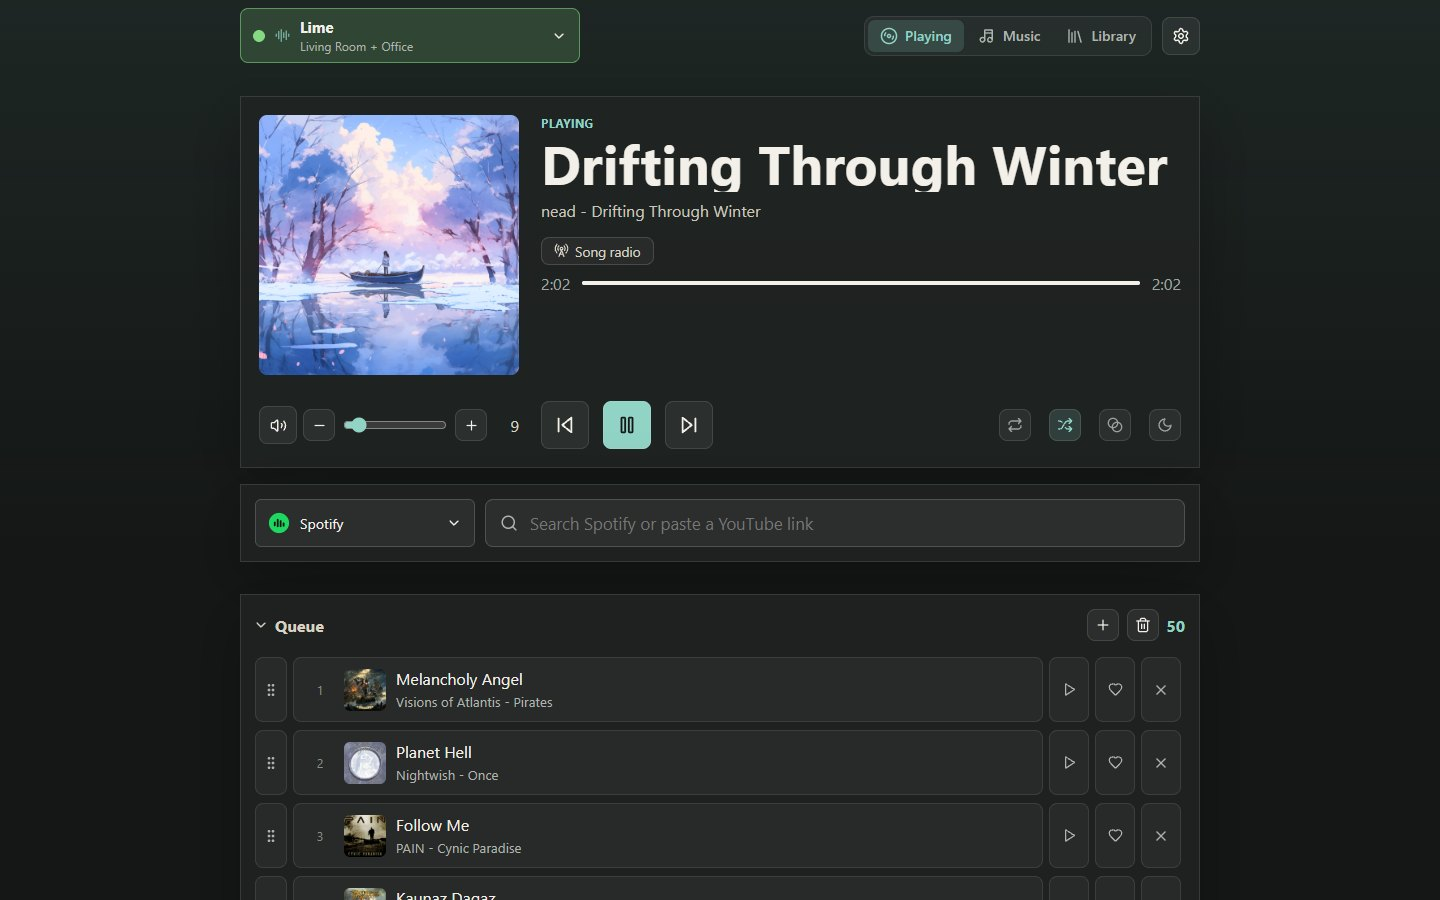
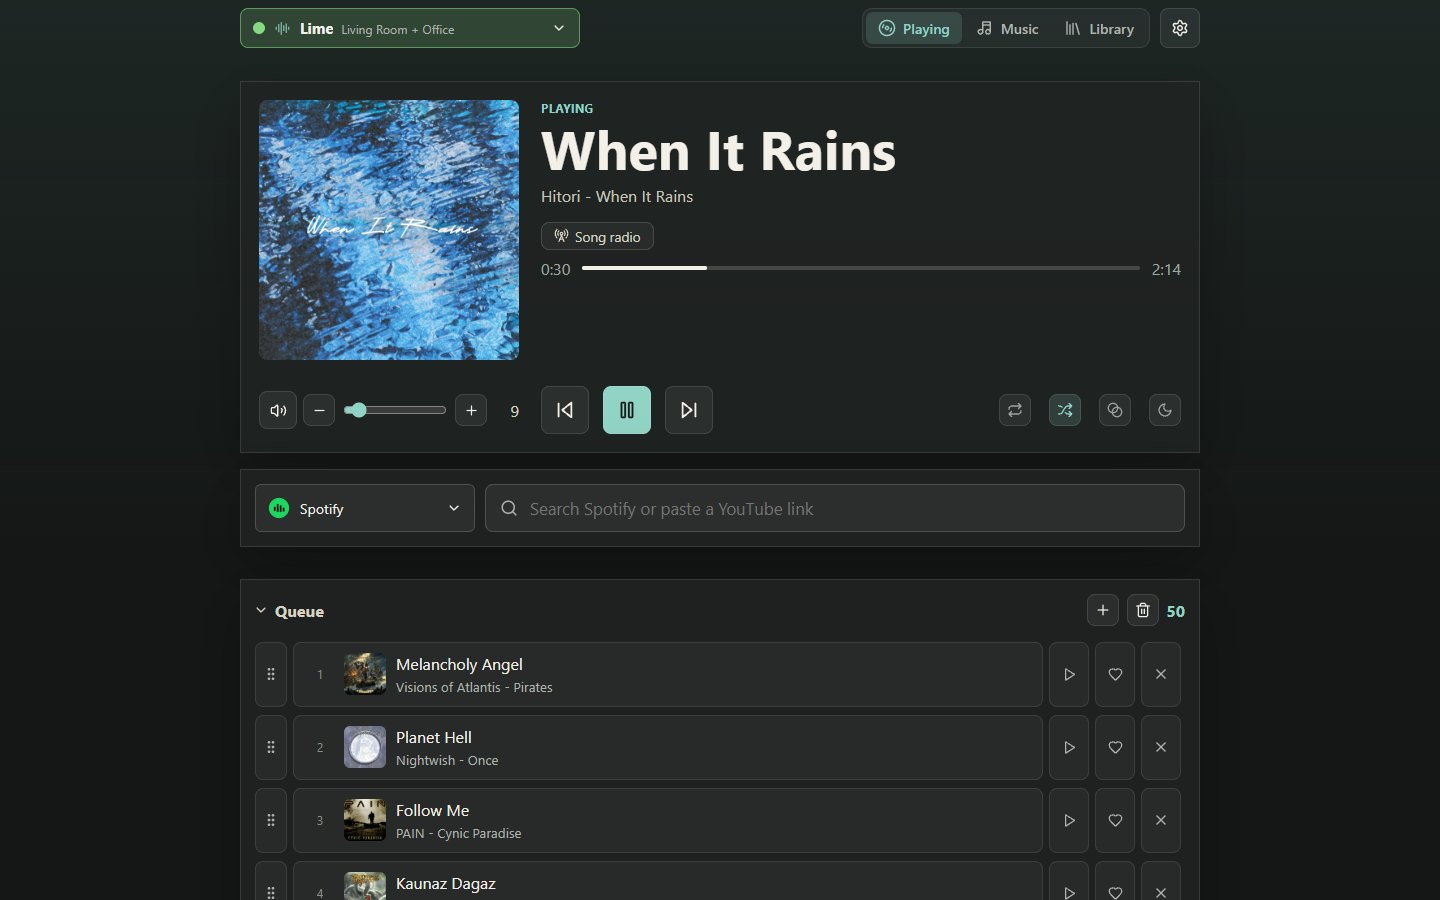
PC header: room picker in one row, as tall as the tabs
On screens wider than 640px the room picker was two lines (55px) beside
40px tabs and a 38px gear. It's now one 40px row with the group's name
followed by its rooms, and the gear is 40px too. Phones keep the two-line
picker. The README's computer screenshot shows the new header.

diff --git a/apps/web/src/styles.css b/apps/web/src/styles.css
@@ -91,6 +91,34 @@ button {
   .topbar.compact.main .topbar-group {
     width: min(100%, 340px);
   }
+
+  /* One row as tall as the tabs and the gear beside it: the group's name, then its rooms. */
+  .topbar.compact.main .topbar-group-trigger {
+    height: 40px;
+    padding-top: 0;
+    padding-bottom: 0;
+  }
+
+  .topbar.compact.main .topbar-group-label {
+    display: flex;
+    align-items: baseline;
+    gap: 8px;
+  }
+
+  .topbar.compact.main .topbar-group-label strong {
+    flex: 0 1 auto;
+    max-width: 70%;
+  }
+
+  .topbar.compact.main .topbar-group-label small {
+    flex: 1 1 0;
+    min-width: 0;
+  }
+
+  .topbar.compact.main .topbar-settings {
+    width: 40px;
+    height: 40px;
+  }
 }
 
 .topbar.compact .topbar-actions {
